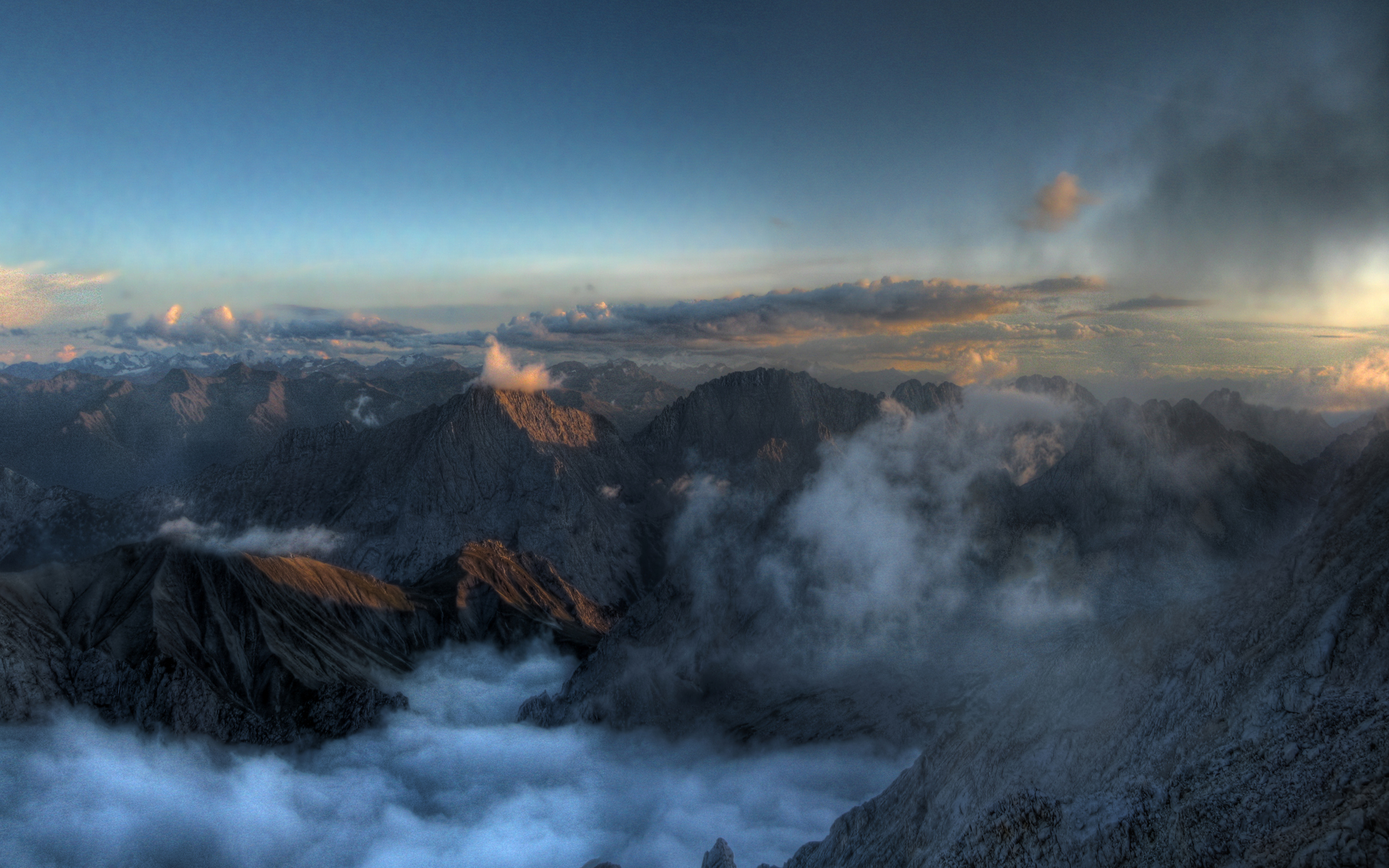
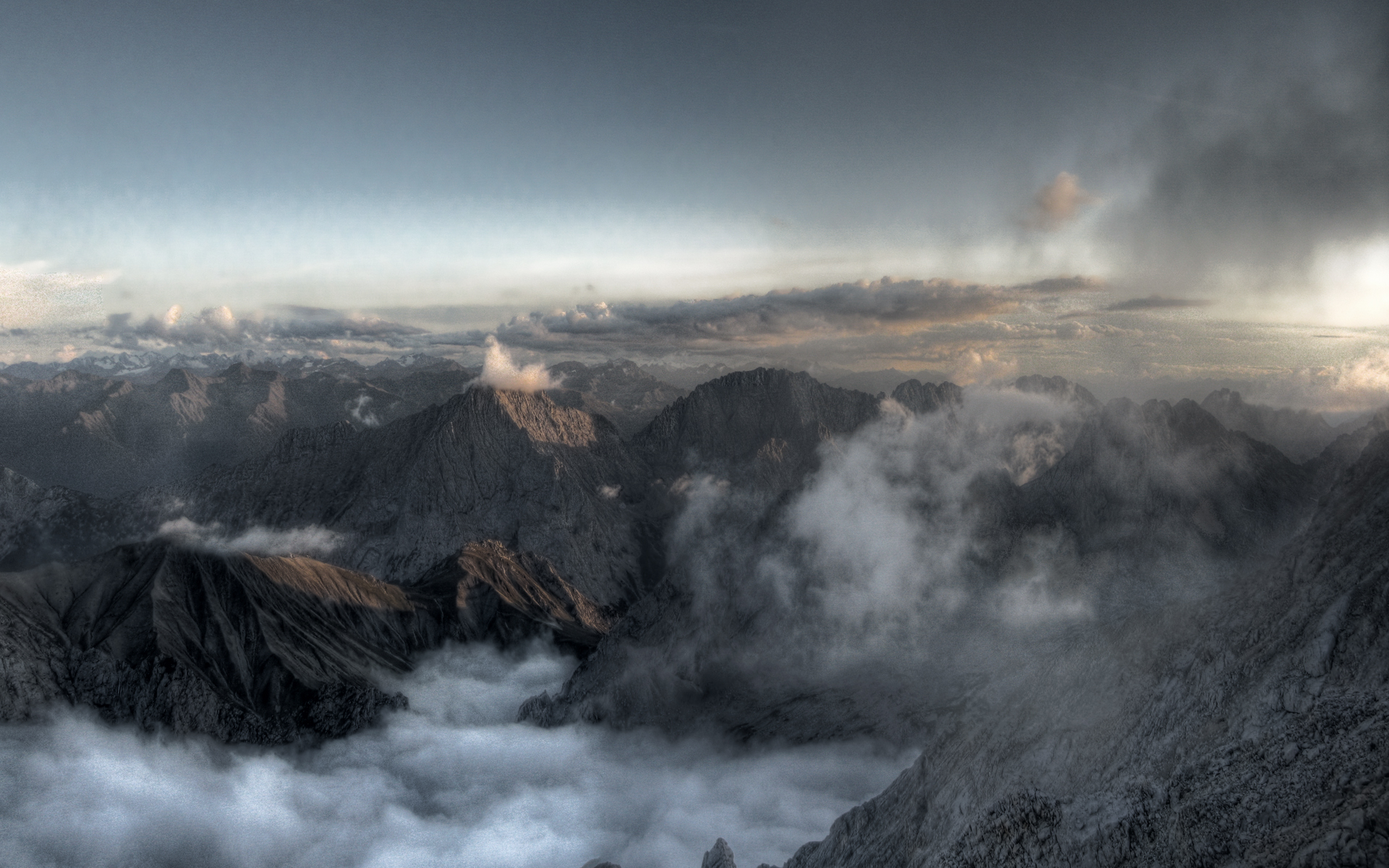
Update

diff --git a/_site/index.html b/_site/index.html
@@ -298,7 +298,7 @@ $('.navbar-collapse ul li a').click(function() {
 			<div class="content">
   
     <article>
-			<header class="intro-header" style="background-image: url('/img/hacker-news-y-combinator-lucas-gatsas.png')" style="margin-bottom:-40px;">  
+			<header class="intro-header" style="background-image: url('/img/3d-abstract_widewallpaper_misty-clouds-over-mountains_57245.jpg')" style="margin-bottom:-40px;">  
 				
 				<div class="post-meta">
 					<span class="entry-date date published updated">

diff --git a/_site/2015/02/09/ycombinator-hacker-news/index.html b/_site/2015/02/09/ycombinator-hacker-news/index.html
@@ -255,7 +255,7 @@ $('.navbar-collapse ul li a').click(function() {
 
 
     <!-- Post Header -->
-<header class="intro-header" style="background-image: url('/img/hacker-news-y-combinator-lucas-gatsas.png')">
+<header class="intro-header" style="background-image: url('/img/3d-abstract_widewallpaper_misty-clouds-over-mountains_57245.jpg')">
     <div class="container">
         <div class="row">
             <div class="col-lg-8 col-lg-offset-2 col-md-10 col-md-offset-1">
